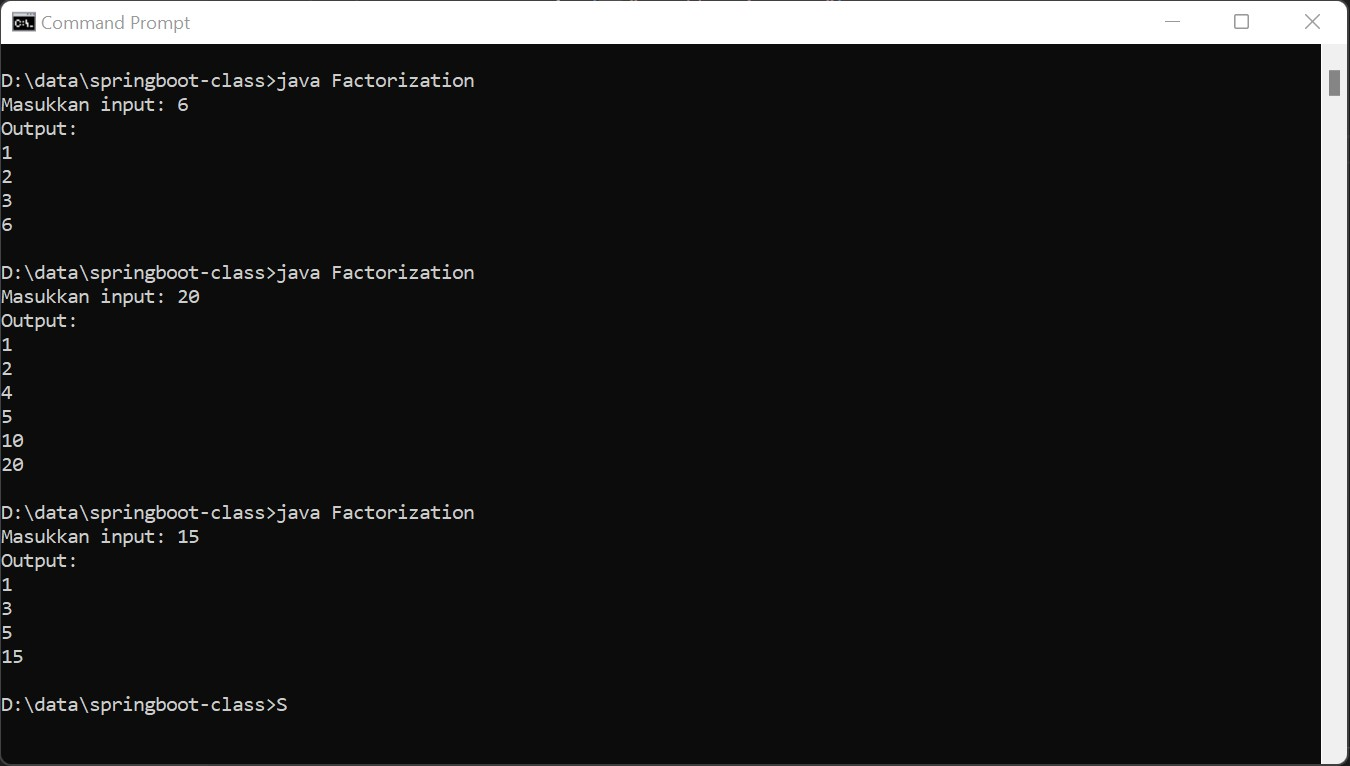
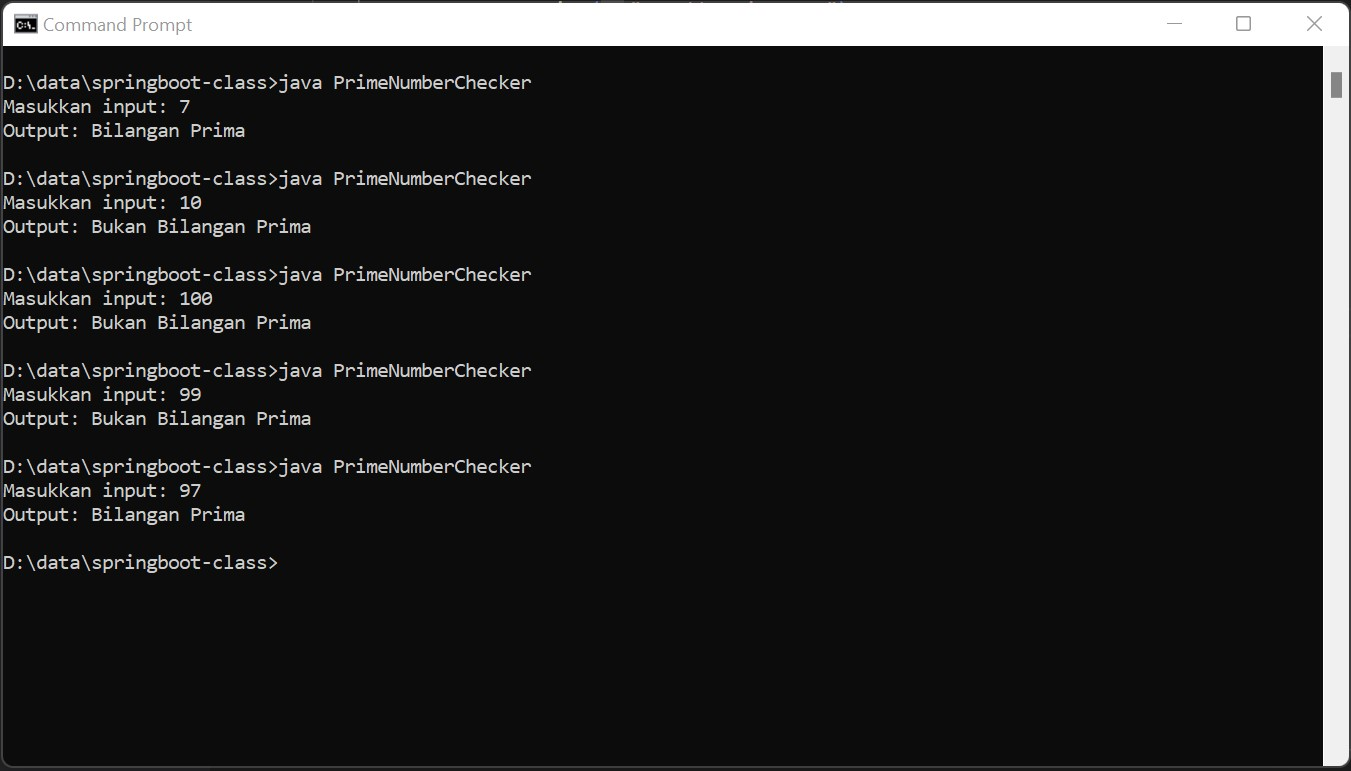
Create a function that can check prime numbers

Changed region(s): [[0.0, 0.0901, 0.4044, 0.8708], [0.0, 0.0, 1.0, 1.0], [0.0, 0.9008, 0.2178, 0.9308]]

diff --git a/PrimeNumberChecker.java b/PrimeNumberChecker.java
@@ -1,15 +1,19 @@
 import java.util.Scanner;
 
-public class Factorization {    
+public class PrimeNumberChecker {    
     public static void main(String[] args) {
         Scanner input = new Scanner(System.in);
         System.out.print("Masukkan input: ");
         int intGiven = input.nextInt();
         input.close();
+
+        int divisibleCounter = 0;
         
-        System.out.println("Output: ");
         for(int i = 1; i <= intGiven; i++) {
-            if (intGiven % i == 0) System.out.println(i);
+            if (intGiven % i == 0) divisibleCounter++;
         }
+
+        if(divisibleCounter == 2) System.out.println("Output: Bilangan Prima");
+        else System.out.println("Output: Bukan Bilangan Prima");
     }    
 }   

diff --git a/README.md b/README.md
@@ -1,3 +1,3 @@
-## Count X O of given string
+## Prime Number Checker
 
 ![screenshot](screenshot.jpg)
